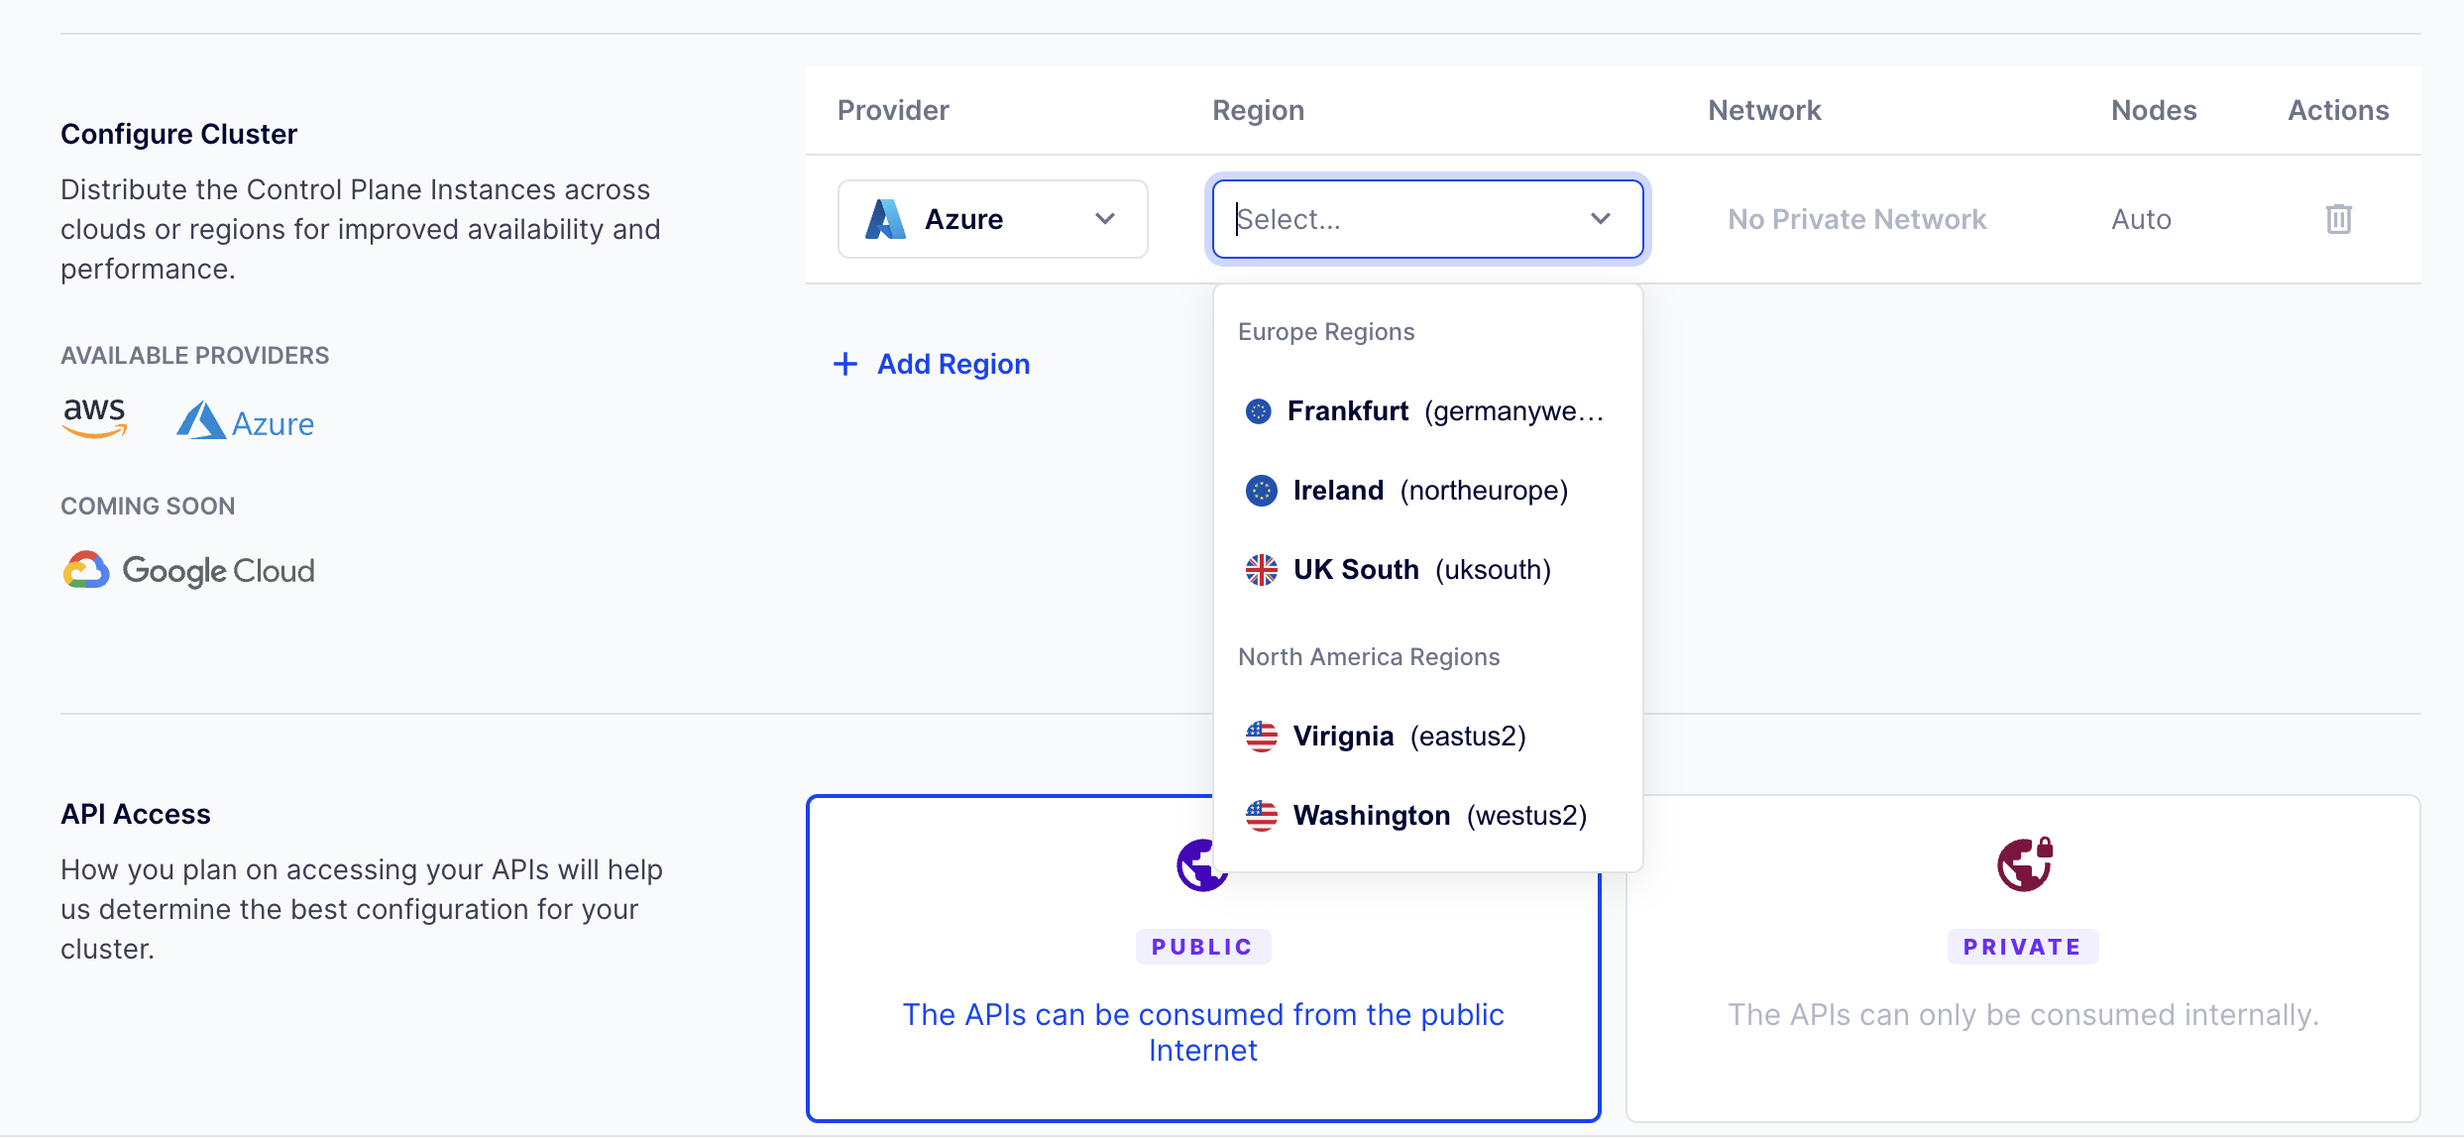
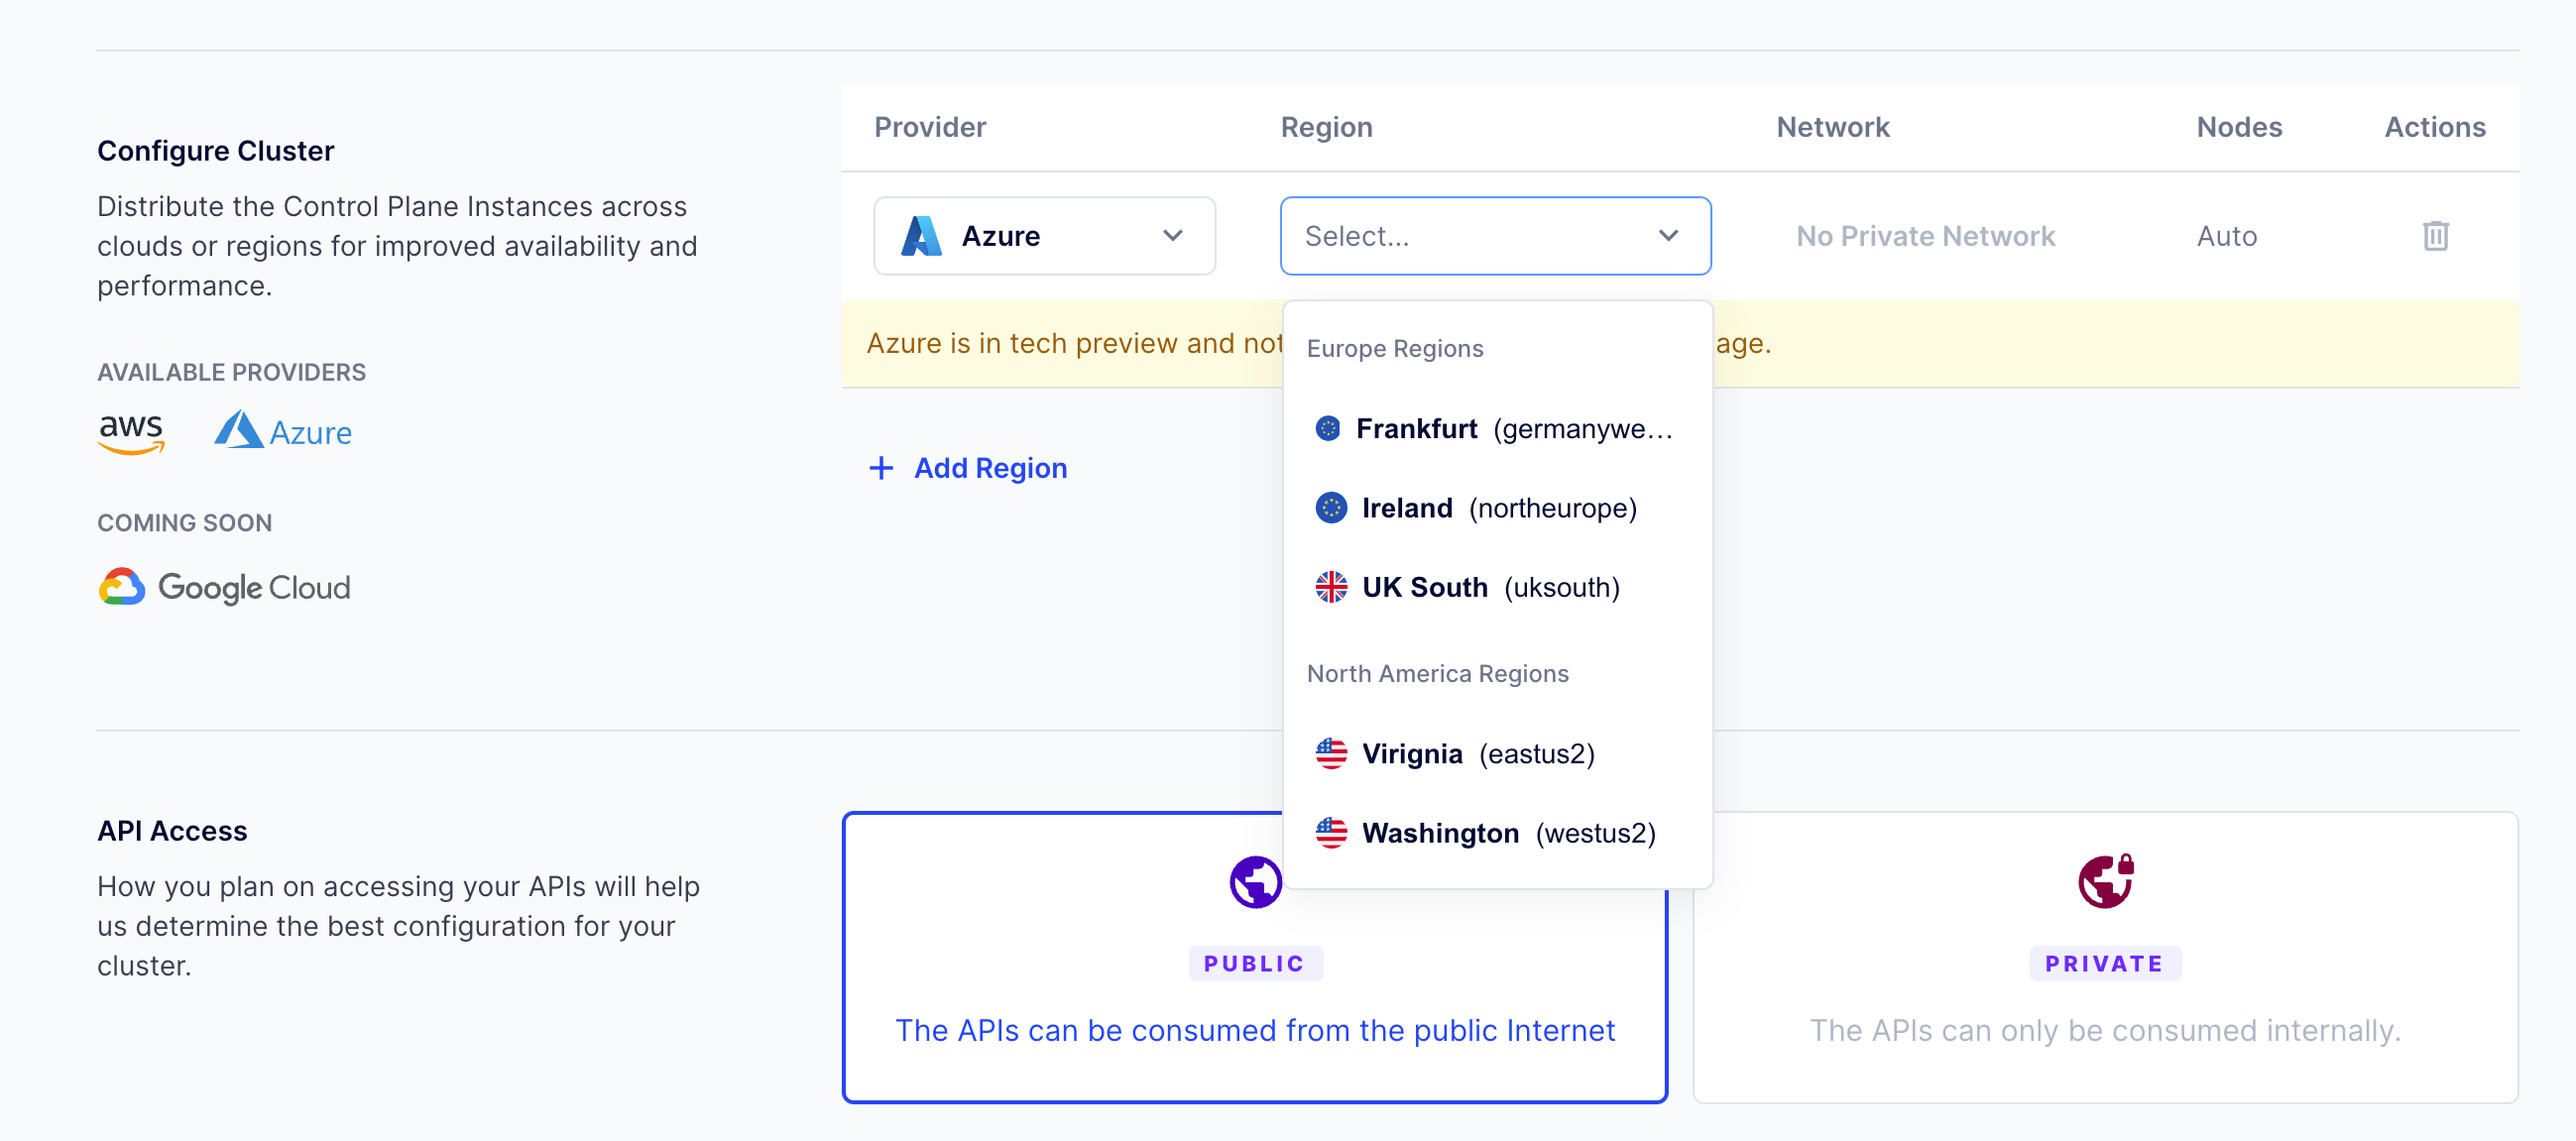
add tech preview info to Azure

diff --git a/app/konnect/gateway-manager/dedicated-cloud-gateways.md b/app/konnect/gateway-manager/dedicated-cloud-gateways.md
@@ -13,7 +13,7 @@ Dedicated Cloud Gateways offer the following benefits:
 * A public or private mode to decide who can view your APIs. In public mode, powered by Kong's public Edge DNS for clusters, you can expose your APIs to the internet. 
 * Automatic scaling of data plane nodes to meet changing demand with Autopilot mode
 * Supported on the following AWS regions: Sydney, Tokyo, Singapore, Frankfurt, Ireland, London, Ohio, Oregon
-* Supported on the following Azure regions: Frankfurt, Ireland, UK South, Virginia, Washington
+* <span class="badge alpha"></span> Supported on the following Azure regions: Frankfurt, Ireland, UK South, Virginia, Washington
 
 You can manage your Dedicated Cloud Gateway nodes in [Gateway Manager](https://cloud.konghq.com/gateway-manager/).
 

diff --git a/app/konnect/updates.md b/app/konnect/updates.md
@@ -11,7 +11,8 @@ services. [Try it today!](https://cloud.konghq.com/quick-start)
 
 ## July 2024
 
-**Dedicated Cloud Gateways on Azure**
+**Dedicated Cloud Gateways on Azure <span class="badge alpha"></span>**
+
 : You can now run Dedicated Cloud Gateways on Azure in the following regions: Frankfurt, Ireland, UK South, Virginia, and Washington.
 
 : ![Azure regions](/assets/images/products/konnect/gateway-manager/konnect-azure-cgw.png)
